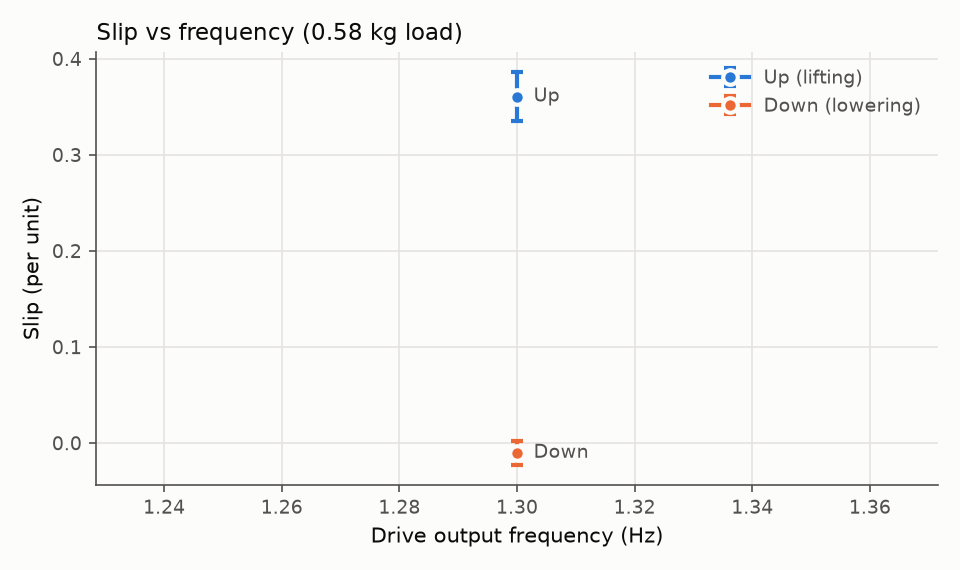
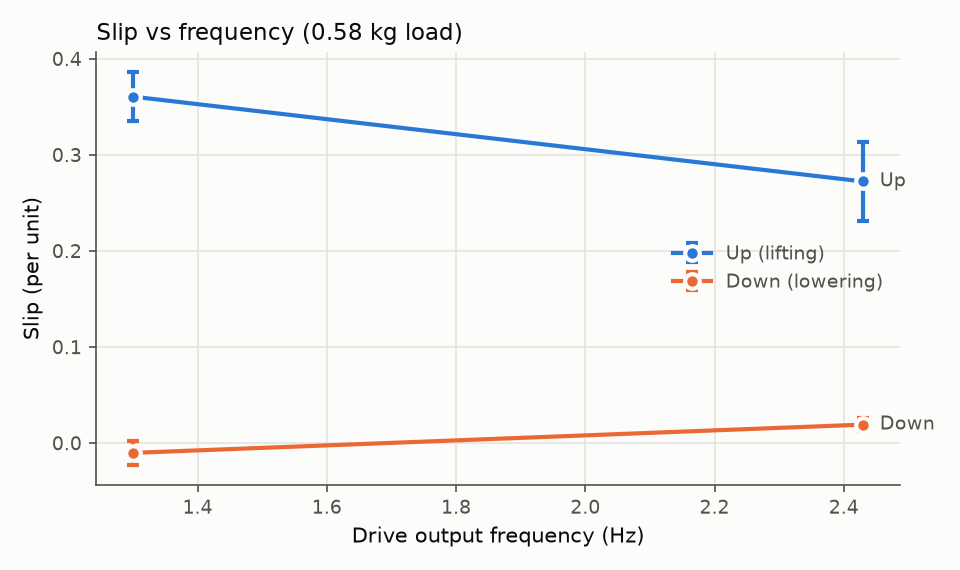
Log the 0.58 kg pliers test at 2.44 Hz
Direction split by current pattern this time (flat plateau = down,
sustained fluctuation = up) rather than just average magnitude.
Up slip again falls between the no-load baseline and the 1.46 kg
box at this frequency, confirming the assignment.

Claude-Session: https://claude.ai/code/session_01KDBgZS5sBDtdZcqbVDmcN3

diff --git a/docs/results-log.md b/docs/results-log.md
@@ -122,3 +122,29 @@ overhauling pattern seen at every frequency and every load so far. Up slip (33.5
 falls neatly between the no-load baseline at this frequency (27%) and the 1.46 kg box
 (50%–57%) — exactly where a 0.58 kg load should sit between them, which is a good sign
 the current-based direction split is correct despite the weak current separation.
+
+## 2026-10-07: pliers (0.58 kg), 2.44 Hz
+
+Up read as **50–56 RPM**; down read as **71–72 RPM** (session
+`2026-10-07_Pliers_baseweight-0.58kg_testedfreq-2.44hz`). Five runs held long enough to
+trust, and this time the current pattern itself — not just its average — splits them:
+runs 4 and 7 settle into a tight, flat ~0.43–0.44 A plateau after their initial ramp,
+while runs 2, 5, and 11 keep fluctuating between 0.44–0.93 A for their whole duration.
+A flat low current all the way through fits a load overhauling the motor (gravity doing
+the work, little corrective torque needed); sustained fluctuation fits active lifting
+against load and friction. That assigns **up = runs 2, 5, 11** and **down = runs 4, 7**,
+consistent with every prior session's up > down current ordering.
+
+| Run | Dir | Run time (s) | Current (A) | Sync RPM | RPM read | Slip |
+|---|---|---|---|---|---|---|
+| 2 | up | 16.2 | 0.526 | 72.8 | 50–56 | 0.231–0.314 |
+| 5 | up | 21.5 | 0.538 | 72.9 | 50–56 | 0.231–0.314 |
+| 11 | up | 19.0 | 0.537 | 72.8 | 50–56 | 0.231–0.314 |
+| 4 | down | 10.4 | 0.445 | 72.9 | 71–72 | 0.012–0.026 |
+| 7 | down | 11.2 | 0.456 | 72.9 | 71–72 | 0.012–0.026 |
+
+**Consistency check**: down slip is small and positive (1.2%–2.6%), in the same range as
+the 6.36 Hz loaded-box result, not negative this time but still far below up slip. Up
+slip (23.1%–31.4%) again falls between the no-load baseline at 2.44 Hz (18%) and the
+1.46 kg box at 2.44 Hz (30.8%–32.2%) — exactly where 0.58 kg belongs, confirming the
+current-pattern-based direction split.
